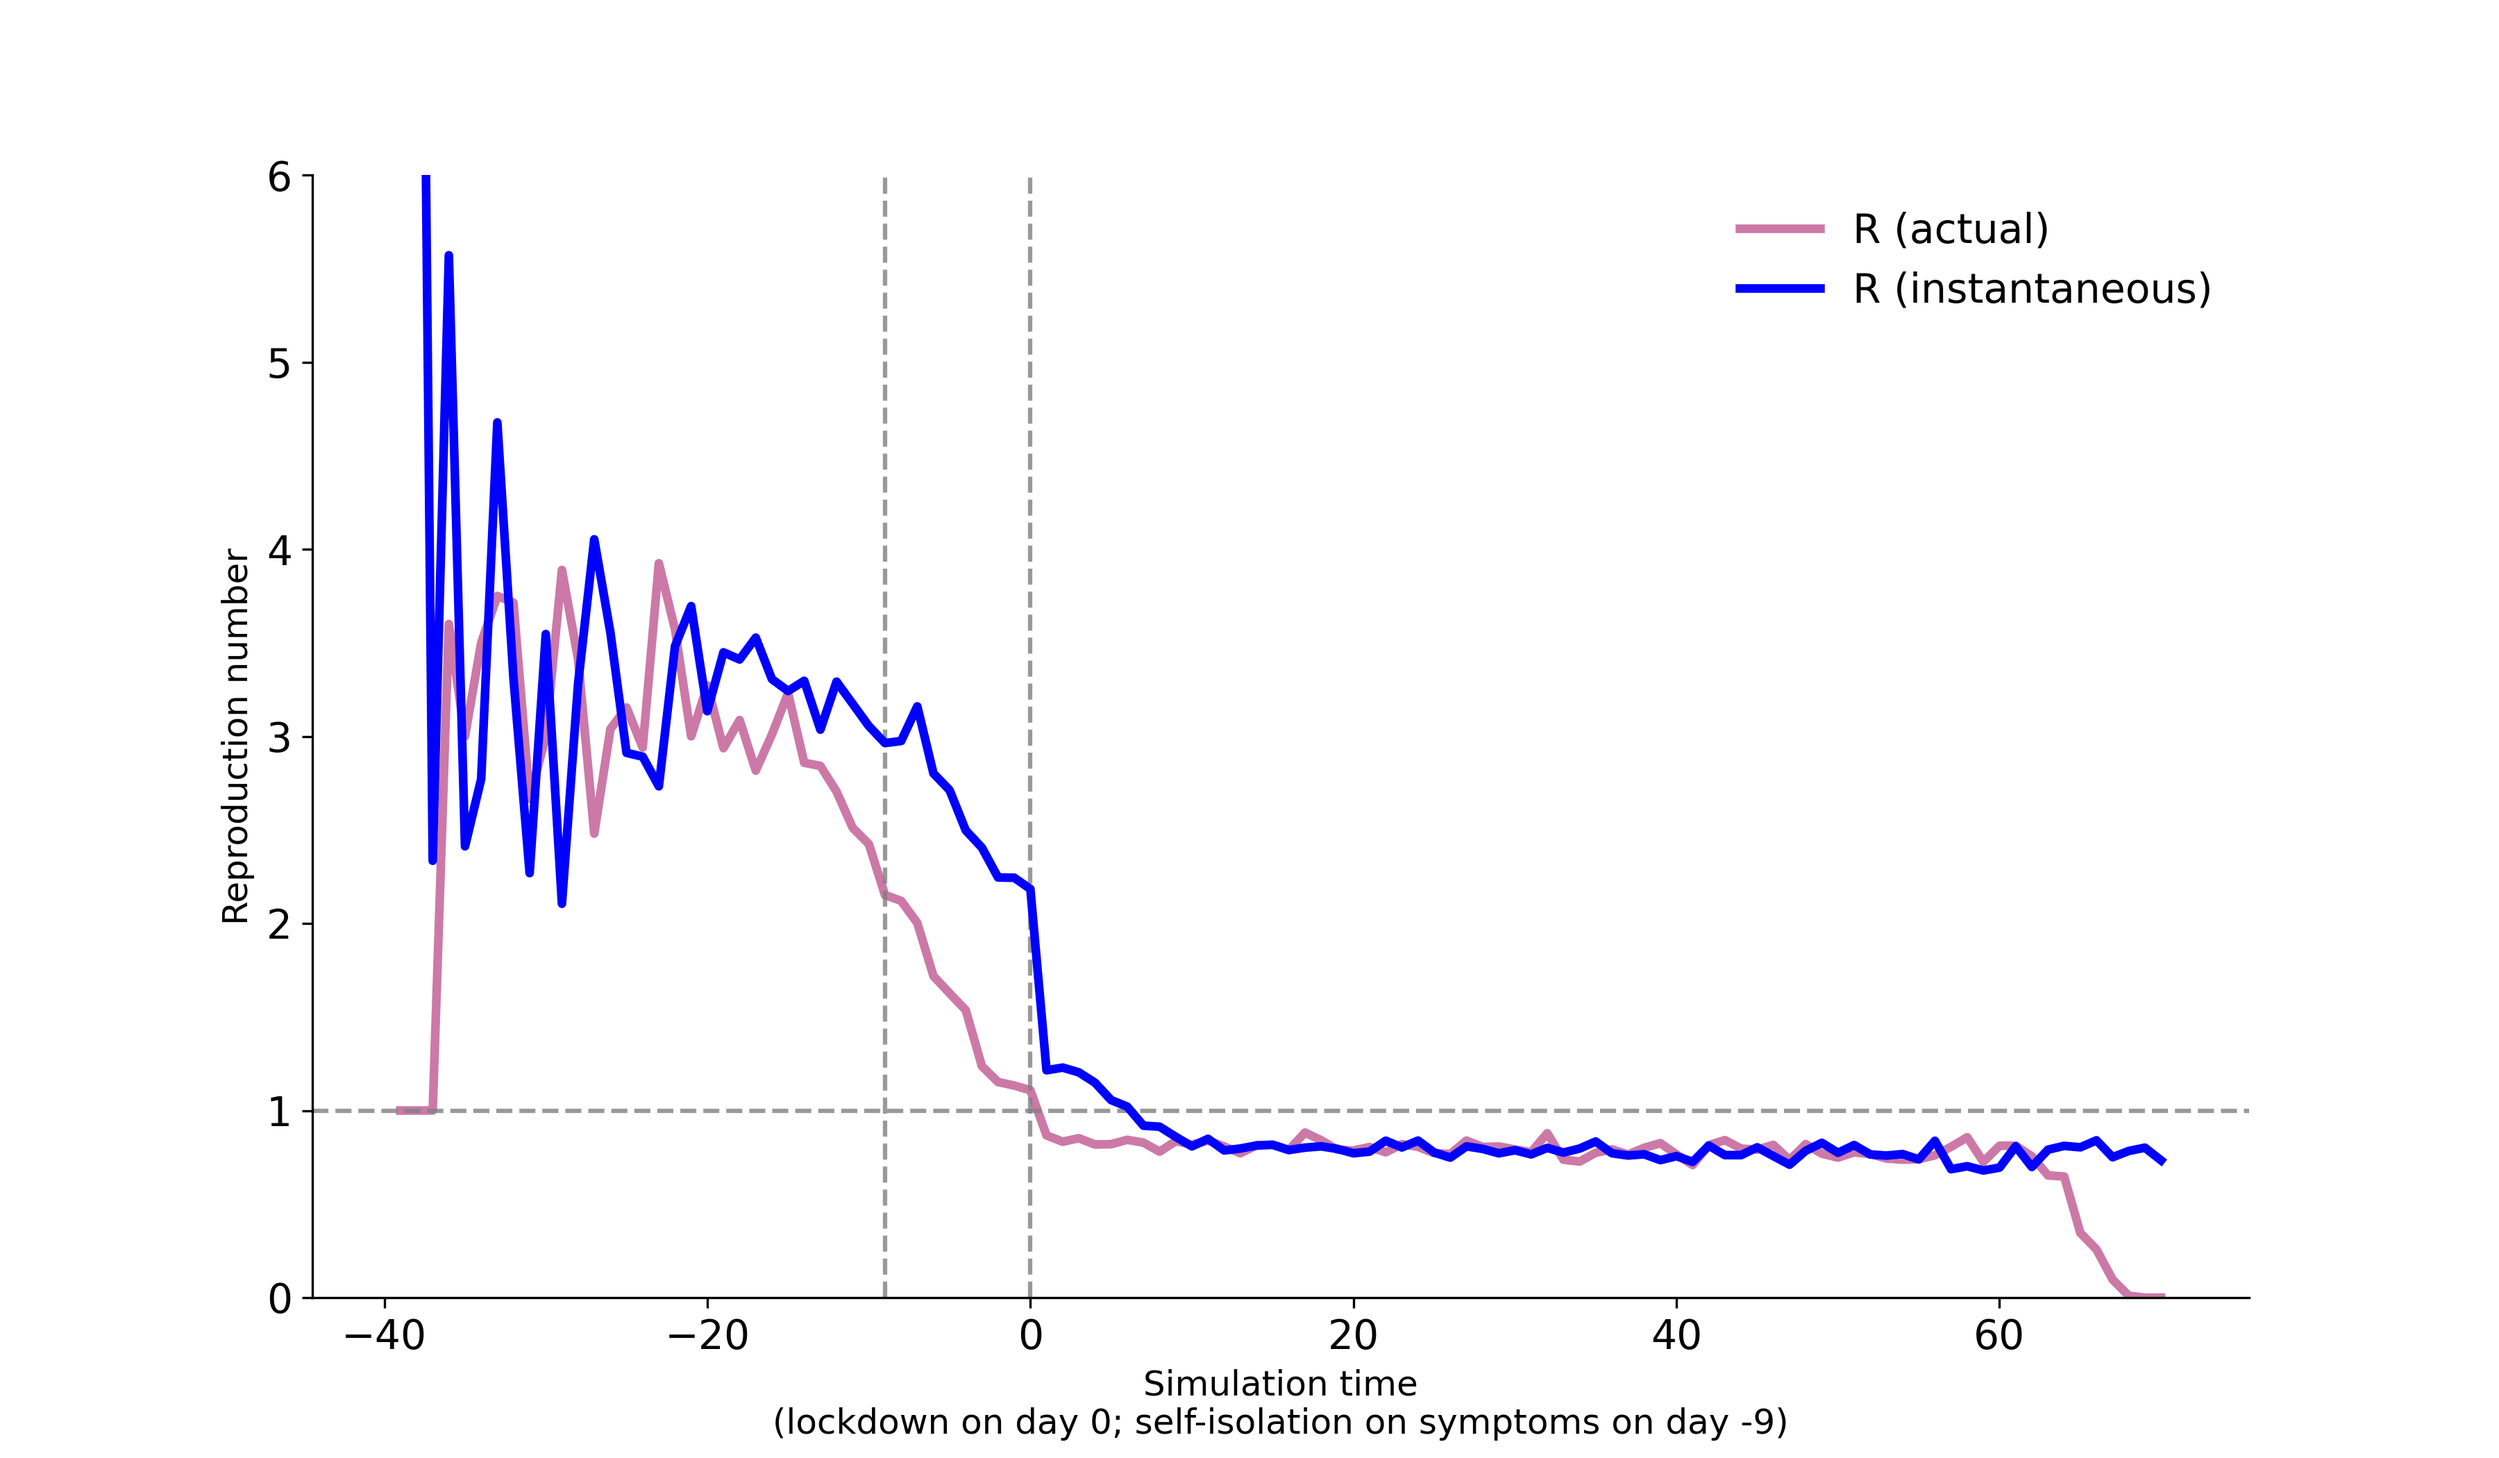
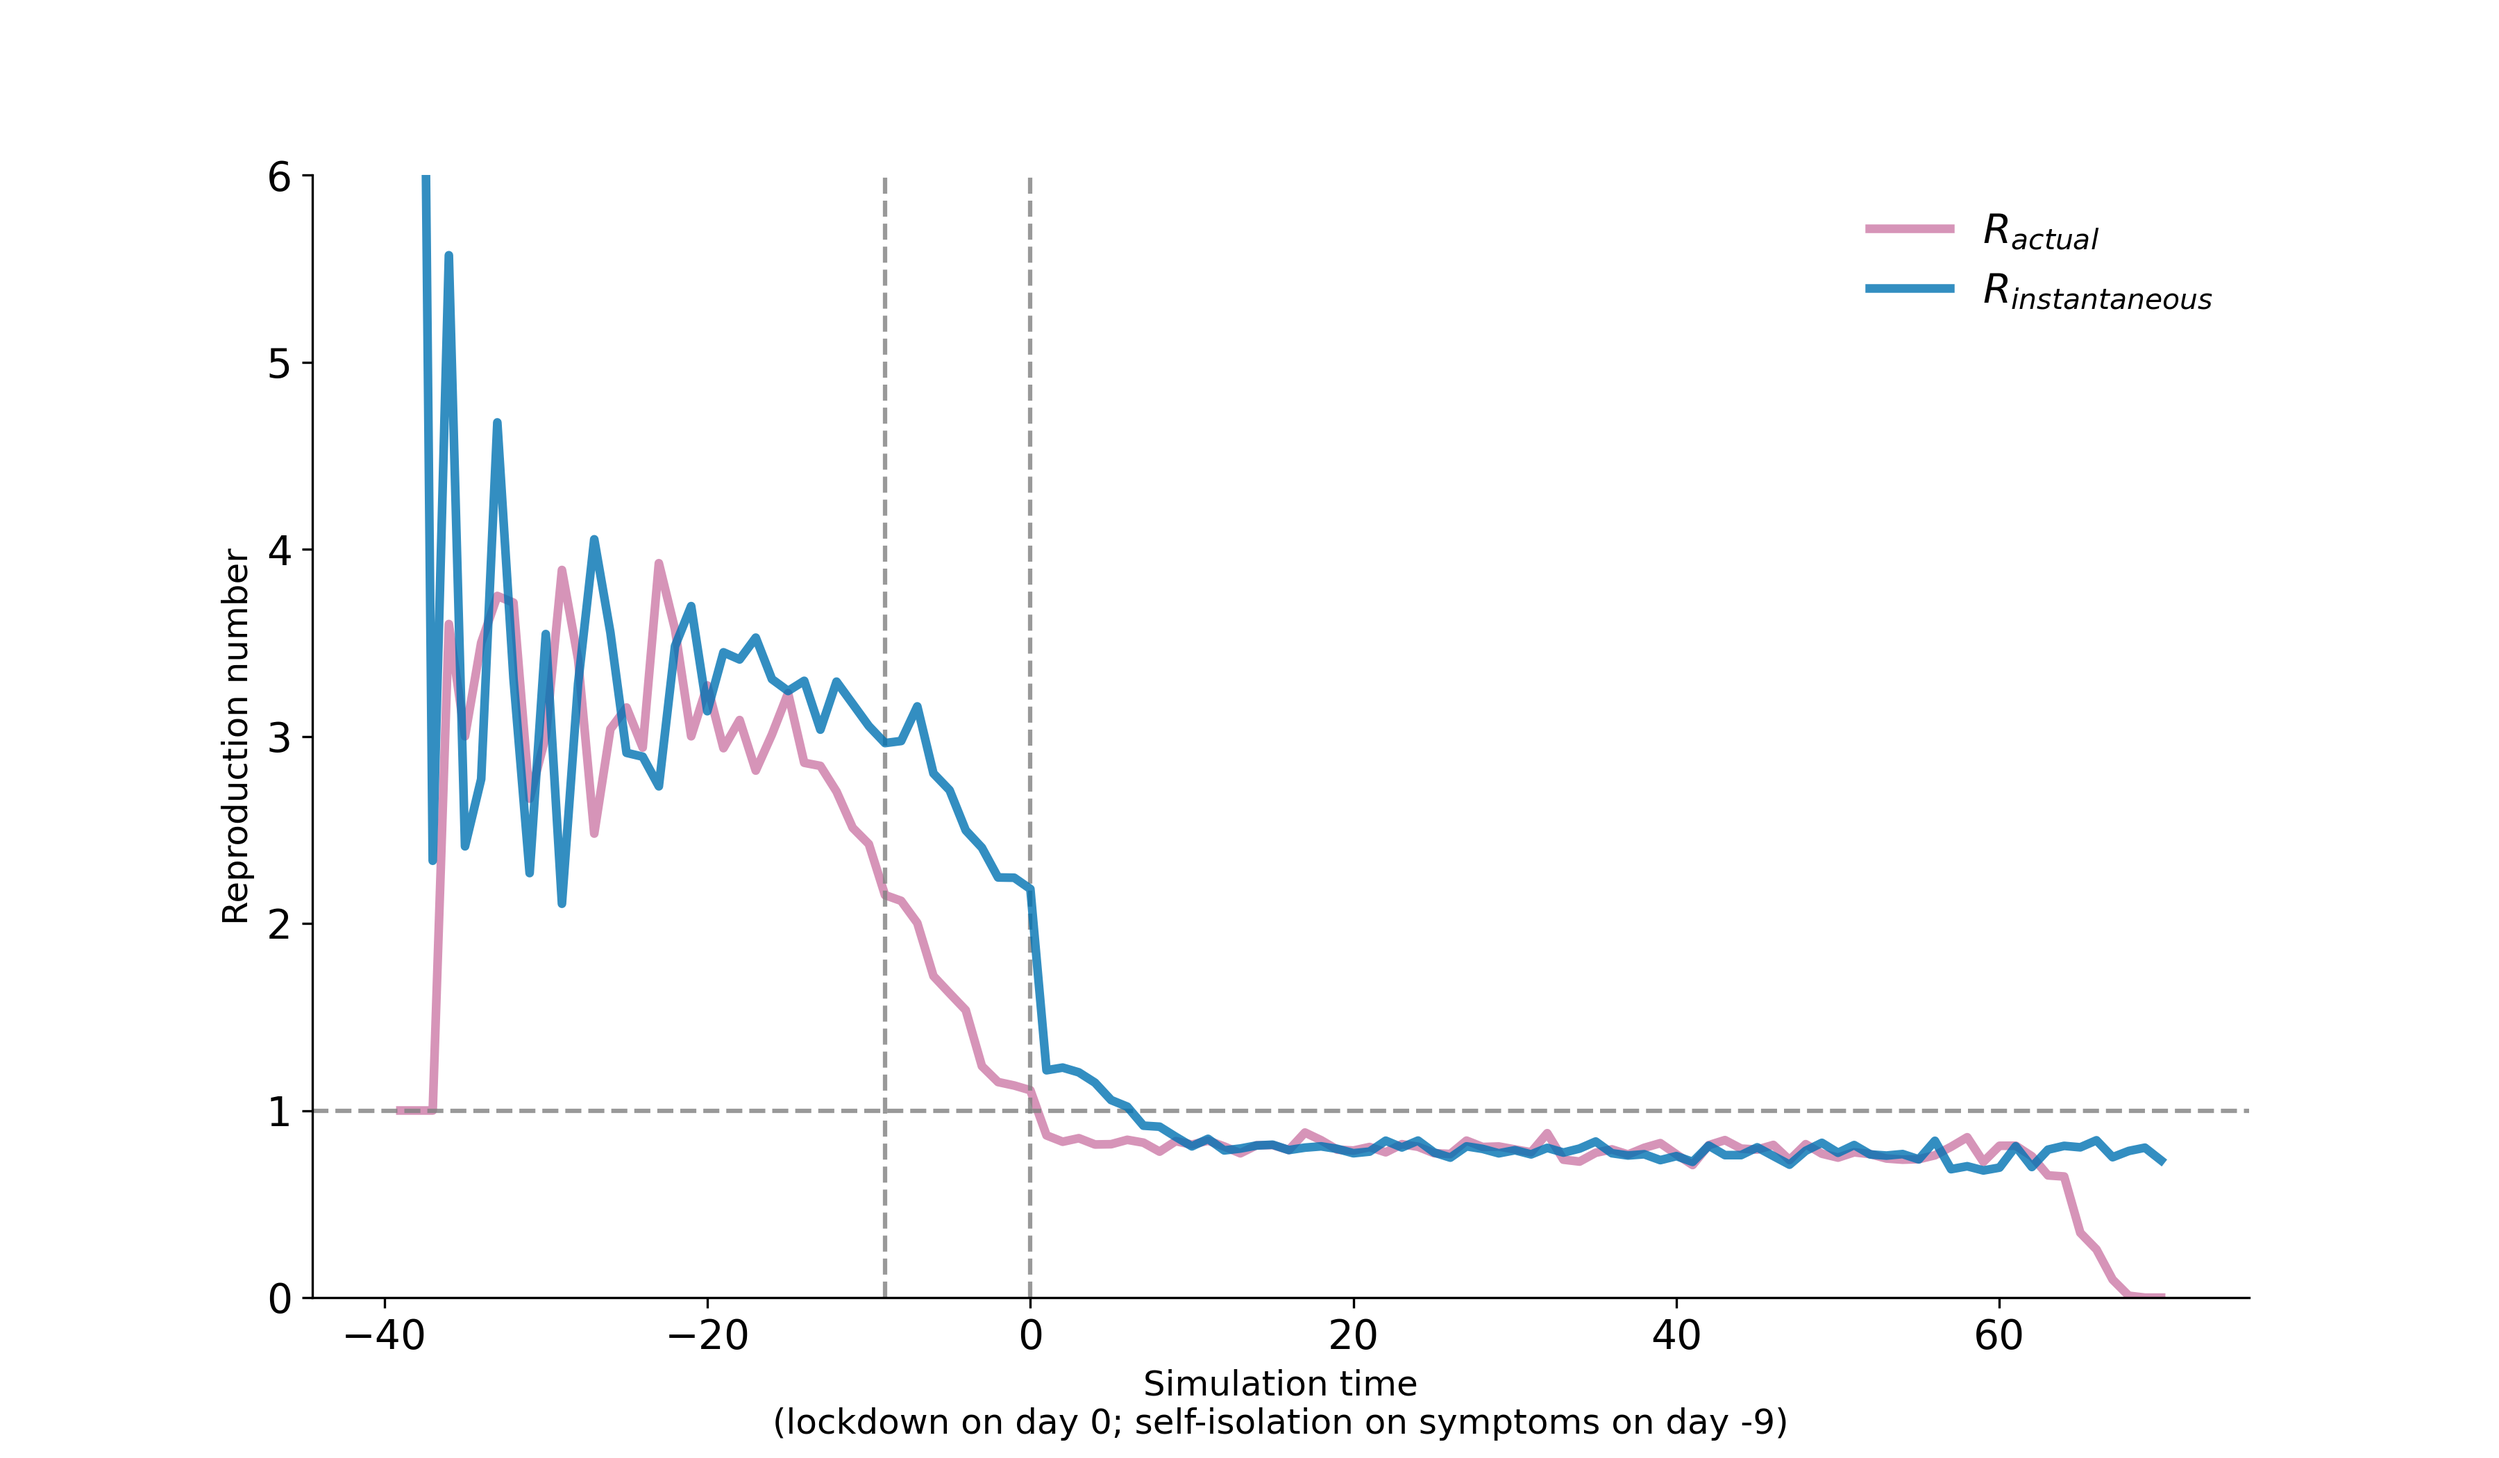
Adjust R figures to have alpha values and subscripts

diff --git a/python/figure_S4.py b/python/figure_S4.py
@@ -63,8 +63,8 @@ if __name__ == "__main__":
     fig, ax = plt.subplots()
     
     ax.plot(times[1:] - lockdown_time, actual_R_means, 
-        label = "R (actual)", 
-        lw = 3, 
+        label = "$R_{actual}$", 
+        lw = 3, alpha = 0.8,
         c = "#CC79A7")
     
     # This will plot a scatter plot of the offspring distribution at each point in time.  
@@ -121,9 +121,9 @@ if __name__ == "__main__":
         R.append(I_t / G)
     
     ax.plot(times[1:] - lockdown_time, R,
-        label = "R (instantaneous)",
-        lw = 3,
-        c = "blue")
+        label = "$R_{instantaneous}$",
+        lw = 3, alpha = 0.8,
+        c = "#0072B2")
 
     plt.legend(frameon = False, fontsize = 14)
     plt.savefig(join("figures", "figS4_actual_R"), dpi = 300)
